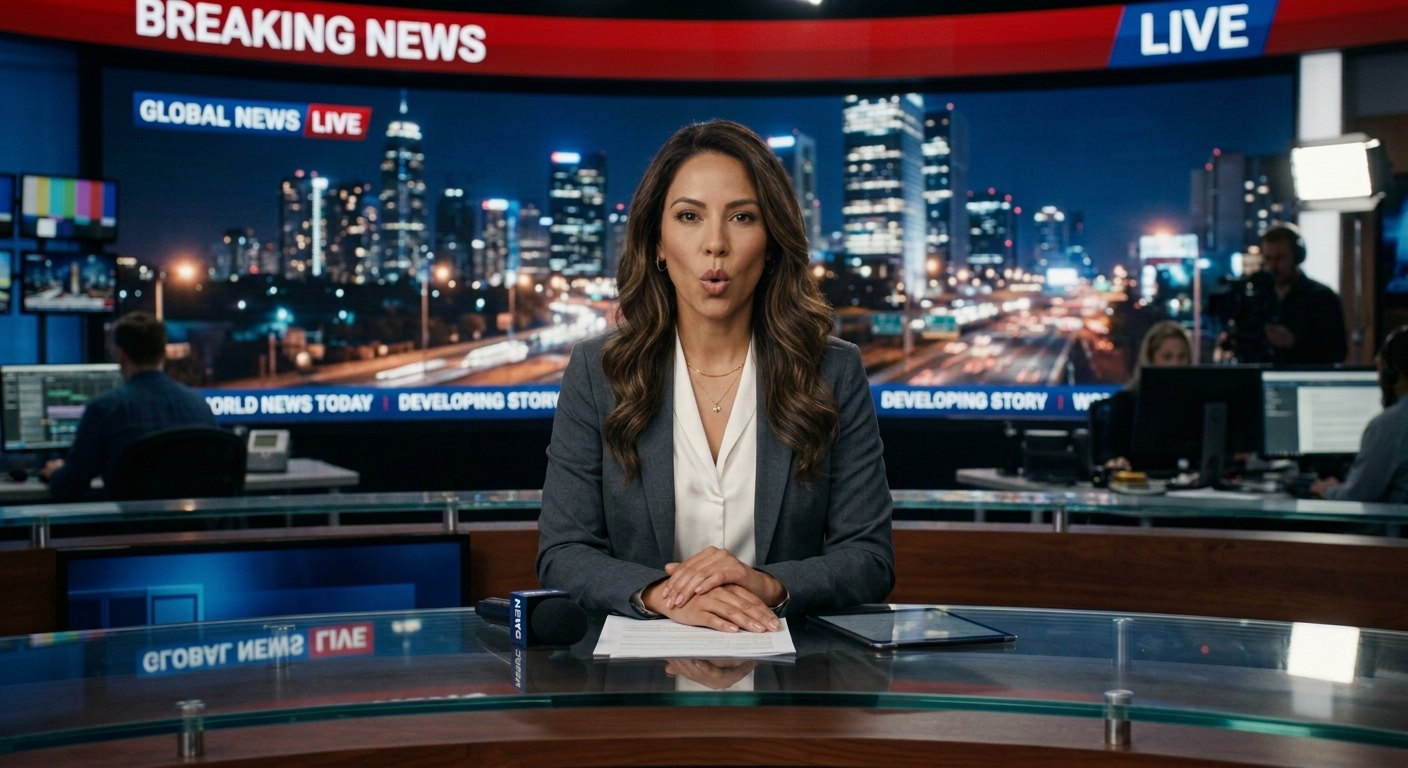
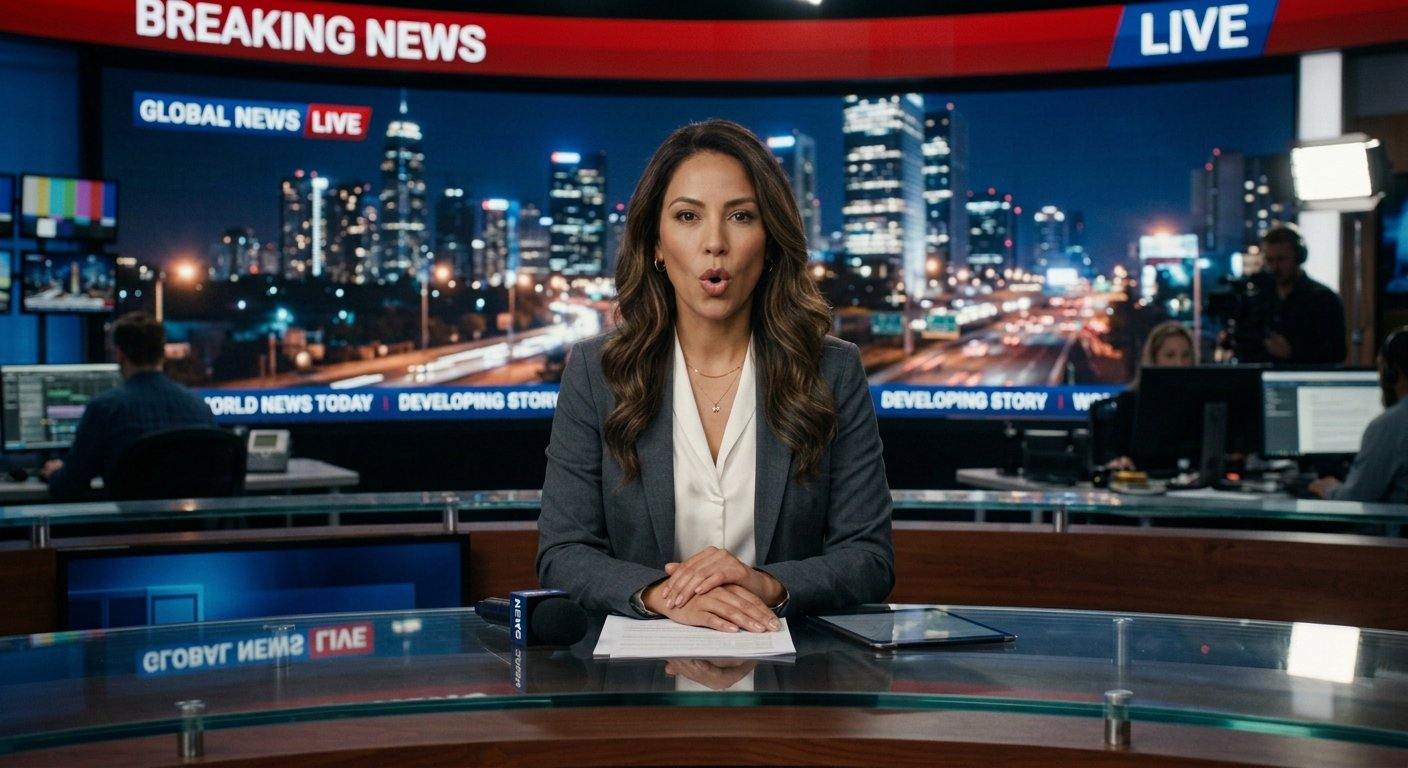
Letter visemes for every presenter; mouth follows each letter
A–Z and word digraphs map to open/wide/round/teeth/closed mouths.
Speech clock plus word boundaries drive the current letter.

diff --git a/talking-avatar.js b/talking-avatar.js
@@ -13,16 +13,46 @@
   };
 
   const MATCHED = {
-    nova_kade:       { A: 1, E: 1, O: 1 },
-    lyra_nova:       { A: 1, O: 1 },
-    arjun_mehra:     { A: 1, O: 1 },
+    nova_kade:       { A: 1, E: 1, O: 1, F: 1 },
+    lyra_nova:       { A: 1, E: 1, O: 1 },
+    arjun_mehra:     { A: 1, E: 1, O: 1, F: 1 },
     priya_nair:      { A: 1, E: 1, O: 1, F: 1 },
-    rajesh_sharma:   { A: 1 },
+    rajesh_sharma:   { A: 1, E: 1, O: 1 },
     meera_kapoor:    { A: 1, E: 1, O: 1, F: 1 },
-    alexander_hayes: { A: 1 },
-    sofia_reyes:     { A: 1, E: 1 },
-    marcus_cole:     { A: 1 }
+    alexander_hayes: { A: 1, E: 1, O: 1 },
+    sofia_reyes:     { A: 1, E: 1, O: 1 },
+    marcus_cole:     { A: 1, E: 1, O: 1 }
   };
+
+  const LATIN_LETTER = {
+    a: { open: 0.88, width: 1.08, shape: "open" },
+    b: { open: 0, width: 0.82, shape: "closed" },
+    c: { open: 0.18, width: 1.0, shape: "rest" },
+    d: { open: 0.2, width: 1.0, shape: "rest" },
+    e: { open: 0.42, width: 1.22, shape: "wide" },
+    f: { open: 0.26, width: 1.06, shape: "teeth" },
+    g: { open: 0.2, width: 1.0, shape: "rest" },
+    h: { open: 0.22, width: 1.0, shape: "rest" },
+    i: { open: 0.38, width: 1.2, shape: "wide" },
+    j: { open: 0.3, width: 1.14, shape: "wide" },
+    k: { open: 0.18, width: 1.0, shape: "rest" },
+    l: { open: 0.3, width: 1.12, shape: "wide" },
+    m: { open: 0, width: 0.8, shape: "closed" },
+    n: { open: 0.16, width: 1.0, shape: "rest" },
+    o: { open: 0.7, width: 0.7, shape: "round" },
+    p: { open: 0, width: 0.82, shape: "closed" },
+    q: { open: 0.18, width: 1.0, shape: "rest" },
+    r: { open: 0.42, width: 0.84, shape: "round" },
+    s: { open: 0.28, width: 1.16, shape: "wide" },
+    t: { open: 0.18, width: 1.0, shape: "rest" },
+    u: { open: 0.62, width: 0.7, shape: "round" },
+    v: { open: 0.26, width: 1.06, shape: "teeth" },
+    w: { open: 0.58, width: 0.7, shape: "round" },
+    x: { open: 0.28, width: 1.12, shape: "wide" },
+    y: { open: 0.38, width: 1.18, shape: "wide" },
+    z: { open: 0.28, width: 1.16, shape: "wide" }
+  };
+  window.letterToViseme = LATIN_LETTER;
 
   const VISEME_ID = { closed: 0, rest: 1, wide: 2, open: 3, round: 4, teeth: 5 };
 
@@ -50,22 +80,24 @@
   }
 
   window.visemeForChar = function visemeForChar(ch) {
-    if (!ch || /\s/.test(ch)) return { open: 0.05, width: 1, shape: "rest" };
+    if (!ch || /\s/.test(ch)) return { open: 0, width: 1, shape: "closed" };
     const t = String(ch).toLowerCase();
     const raw = String(ch);
-    if (["m", "b", "p", "mb", "mp"].indexOf(t) >= 0 || /[मपबभ]/.test(raw) || /[ಮಪಬ]/.test(raw) || /[மப]/.test(raw) || /[మపబ]/.test(raw))
+    if (LATIN_LETTER[t]) return LATIN_LETTER[t];
+    if (["mb", "mp"].indexOf(t) >= 0 || /[मपबभ]/.test(raw) || /[ಮಪಬ]/.test(raw) || /[மப]/.test(raw) || /[మపబ]/.test(raw))
       return { open: 0, width: 0.8, shape: "closed" };
-    if (["f", "v", "ph"].indexOf(t) >= 0 || /[फव]/.test(raw))
-      return { open: 0.25, width: 1.05, shape: "teeth" };
-    if (["th", "sh", "ch", "s", "z", "j"].indexOf(t) >= 0)
-      return { open: 0.28, width: 1.16, shape: "wide" };
-    if (["ee", "ea", "ie", "ei", "i", "y", "e"].indexOf(t) >= 0 || /[इईएऐिीेै]/.test(raw) || /[ಇಈಎಏಿೀೆೇ]/.test(raw) || /[இஈஎஏைிீ]/.test(raw) || /[ఇఈఎఏిీెే]/.test(raw))
+    if (t === "ph" || /[फव]/.test(raw))
+      return { open: 0.26, width: 1.05, shape: "teeth" };
+    if (["th", "sh", "ch"].indexOf(t) >= 0)
+      return { open: 0.3, width: 1.16, shape: "wide" };
+    if (["ee", "ea", "ie", "ei", "ey"].indexOf(t) >= 0 || /[इईएऐिीेै]/.test(raw) || /[ಇಈಎಏಿೀೆೇ]/.test(raw) || /[இஈஎஏைிீ]/.test(raw) || /[ఇఈఎఏిీెే]/.test(raw))
       return { open: 0.4, width: 1.22, shape: "wide" };
-    if (["oo", "ou", "ow", "ue", "ew", "u", "o", "w", "oy", "oi"].indexOf(t) >= 0 || /[उऊओऔुूोौ]/.test(raw) || /[ಉಊಒಓುೂೊೋ]/.test(raw) || /[உஊஒஓொோுூ]/.test(raw) || /[ఉఊఒఓుూొో]/.test(raw))
-      return { open: 0.65, width: 0.7, shape: "round" };
-    if (["a", "ay", "ai", "ah"].indexOf(t) >= 0 || /[अआा]/.test(raw) || /[ಅಆಾ]/.test(raw) || /[அஆா]/.test(raw) || /[అఆా]/.test(raw))
+    if (["oo", "ou", "ow", "ue", "ew", "oy", "oi"].indexOf(t) >= 0 || /[उऊओऔुूोौ]/.test(raw) || /[ಉಊಒಓುೂೊೋ]/.test(raw) || /[உஊஒஓொோுூ]/.test(raw) || /[ఉఊఒఓుూొో]/.test(raw))
+      return { open: 0.66, width: 0.7, shape: "round" };
+    if (["ay", "ai", "ah"].indexOf(t) >= 0 || /[अआा]/.test(raw) || /[ಅಆಾ]/.test(raw) || /[அஆா]/.test(raw) || /[అఆా]/.test(raw))
       return { open: 0.85, width: 1.08, shape: "open" };
-    return { open: 0.45, width: 1, shape: "open" };
+    if (/[0-9]/.test(t)) return { open: 0.5, width: 1.05, shape: "open" };
+    return { open: 0.22, width: 1, shape: "rest" };
   };
 
   function lettersOf(word) {
@@ -127,16 +159,16 @@
       else if (allow.E) z.E += amt * 0.75;
     }
     if (shape === "closed" || open < 0.04) return z;
-    if (shape === "wide") put("E", 0.95);
-    else if (shape === "round") put("O", 0.95);
-    else if (shape === "teeth") put("F", 0.9);
+    if (shape === "wide") put("E", 0.96);
+    else if (shape === "round") put("O", 0.96);
+    else if (shape === "teeth") put("F", 0.92);
     else if (shape === "open") put("A", 0.98);
-    else put("A", 0.7);
+    else if (shape === "rest") put("A", 0.32);
+    else put("A", 0.55);
     const sum = z.A + z.E + z.O + z.F;
     if (sum > 1) {
       z.A /= sum; z.E /= sum; z.O /= sum; z.F /= sum;
     }
-    if (sum < 0.5) put("A", 0.9);
     return z;
   }
 
@@ -144,33 +176,49 @@
     return cur + (goal - cur) * k;
   }
 
-  const IDLE_CYCLE = [
-    { char: "a", viseme: "open", open: 0.9 },
-    { char: "e", viseme: "wide", open: 0.45 },
-    { char: "o", viseme: "round", open: 0.72 },
-    { char: "a", viseme: "open", open: 0.8 },
-    { char: "m", viseme: "closed", open: 0.02 }
-  ];
+  const DIGRAPHS = ["th", "sh", "ch", "ph", "wh", "ee", "ea", "ie", "ei", "oo", "ou", "ow", "ue", "ew", "ai", "ay", "ey", "oi", "oy", "ng"];
 
-  function syncWordClock() {
-    const words = state.scriptWords || [];
-    if (!words.length) return;
-    const now = performance.now();
-    if (state._lastBoundary && now - state._lastBoundary < 380) return;
-    const t0 = state._speakT0 || now;
-    const elapsed = Math.max(0, (now - t0) / 1000);
-    const wps = 2.5 * (state.speechRate || 1);
-    const est = Math.min(words.length - 1, Math.floor(elapsed * wps));
-    if (est !== state.currentWordIndex) {
-      state.currentWordIndex = est;
-      state.letterPhase = 0;
-      state._visemeWord = est;
+  function bakeVisemeTrack(text) {
+    const s = String(text || "");
+    const track = new Array(s.length);
+    for (let i = 0; i < s.length; ) {
+      const raw = s[i];
+      if (/\s/.test(raw) || /[.,!?;:।'"()[\]{}…—–-]/.test(raw)) {
+        track[i] = { char: raw, viseme: "closed", open: 0, id: 0 };
+        i += 1;
+        continue;
+      }
+      const two = s.slice(i, i + 2).toLowerCase();
+      if (/^[a-z]{2}$/.test(two) && DIGRAPHS.indexOf(two) >= 0) {
+        const v = window.visemeForChar(two);
+        const cell = { char: two, viseme: v.shape, open: v.open, id: VISEME_ID[v.shape] ?? 1 };
+        track[i] = cell;
+        if (i + 1 < s.length) track[i + 1] = cell;
+        i += 2;
+        continue;
+      }
+      const v = window.visemeForChar(raw);
+      track[i] = { char: raw, viseme: v.shape, open: v.open, id: VISEME_ID[v.shape] ?? 1 };
+      i += 1;
     }
+    return track;
+  }
+  window.bakeVisemeTrack = bakeVisemeTrack;
+
+  function speechCharIndex(text) {
+    const now = performance.now();
+    const elapsed = Math.max(0, (now - (state._speakT0 || now)) / 1000);
+    const cps = 12.8 * (state.speechRate || 1);
+    let ci = elapsed * cps;
+    if (typeof state._boundCharIndex === "number" && state._boundCharIndex >= 0 && state._lastBoundary && now - state._lastBoundary < 480) {
+      ci = state._boundCharIndex + ((now - state._lastBoundary) / 1000) * cps;
+    }
+    return Math.max(0, Math.min(Math.max(0, text.length - 1), Math.floor(ci)));
   }
 
   function driveLetterVisemes(delta) {
     const speaking = !!(state.isSpeaking && !state.isPaused);
-    const k = 1 - Math.exp(-12 * Math.max(0.001, delta));
+    const k = 1 - Math.exp(-14 * Math.max(0.001, delta));
     if (!state.faceW || typeof state.faceW.A !== "number") state.faceW = { A: 0, E: 0, O: 0, F: 0 };
     const id = state.anchorModel || "";
     const w = state.faceW;
@@ -187,23 +235,24 @@
       return;
     }
 
-    syncWordClock();
-    const words = state.scriptWords || [];
-    const idx = Math.max(0, state.currentWordIndex || 0);
-    if (state._visemeWord !== idx) {
-      state._visemeWord = idx;
-      state.letterPhase = 0;
+    const text = state.scriptText || (state.scriptWords || []).join(" ");
+    if (!state._visemeTrack || state._visemeTrackText !== text) {
+      state._visemeTrack = bakeVisemeTrack(text);
+      state._visemeTrackText = text;
     }
-    const seq = window.wordToVisemes(words[idx] || "");
-    const rate = 4.2 * (state.speechRate || 1);
-    state.letterPhase = (state.letterPhase || 0) + delta * rate;
-    let item;
-    if (seq.length) {
-      const i = Math.min(seq.length - 1, Math.floor(state.letterPhase));
-      item = seq[i];
-    } else {
-      item = IDLE_CYCLE[Math.floor(state.letterPhase) % IDLE_CYCLE.length];
+    const ci = speechCharIndex(text);
+    state._speechCharIndex = ci;
+    const before = text.slice(0, ci);
+    const wIdx = Math.max(0, before.split(/\s+/).filter(Boolean).length - (/\s$/.test(before) ? 0 : 1));
+    if (wIdx !== state.currentWordIndex) {
+      state.currentWordIndex = wIdx;
+      const liveSub = document.getElementById("subtitleTicker");
+      if (liveSub && state.scriptWords && state.scriptWords.length) {
+        liveSub.textContent = state.scriptWords.slice(Math.max(0, wIdx - 2), wIdx + 6).join(" ");
+      }
     }
+
+    const item = (state._visemeTrack && state._visemeTrack[ci]) || { char: "a", viseme: "open", open: 0.7 };
     const v = window.visemeForChar(item.char || "a");
     state.currentLetter = item.char;
     state.visemeMouthOpen = easeToward(state.visemeMouthOpen || 0, item.open, k);

diff --git a/index.html b/index.html
@@ -572,11 +572,11 @@
     </div>
 
     <div id="studioToast" class="studio-toast hidden"></div>
-    <script src="app.js?v=hd2"></script>
-    <script src="talking-avatar.js?v=hd2"></script>
-    <script src="news-desk.js?v=hd2"></script>
-    <script src="boot-controls.js?v=hd2"></script>
-    <script src="fix-news-ui.js?v=hd2"></script>
+    <script src="app.js?v=let1"></script>
+    <script src="talking-avatar.js?v=let1"></script>
+    <script src="news-desk.js?v=let1"></script>
+    <script src="boot-controls.js?v=let1"></script>
+    <script src="fix-news-ui.js?v=let1"></script>
     <script>
         (function () {
             function dismissLoader() {

diff --git a/app.js b/app.js
@@ -1364,6 +1364,7 @@ function startNewsBroadcast() {
             if (state.currentWordIndex < 0) state.currentWordIndex = 0;
             state.letterPhase = 0;
             state._visemeWord = state.currentWordIndex;
+            state._boundCharIndex = charIdx;
             state._lastBoundary = performance.now();
             renderTeleprompterText();
             const activeElem = document.getElementById("tp-word-" + state.currentWordIndex);
